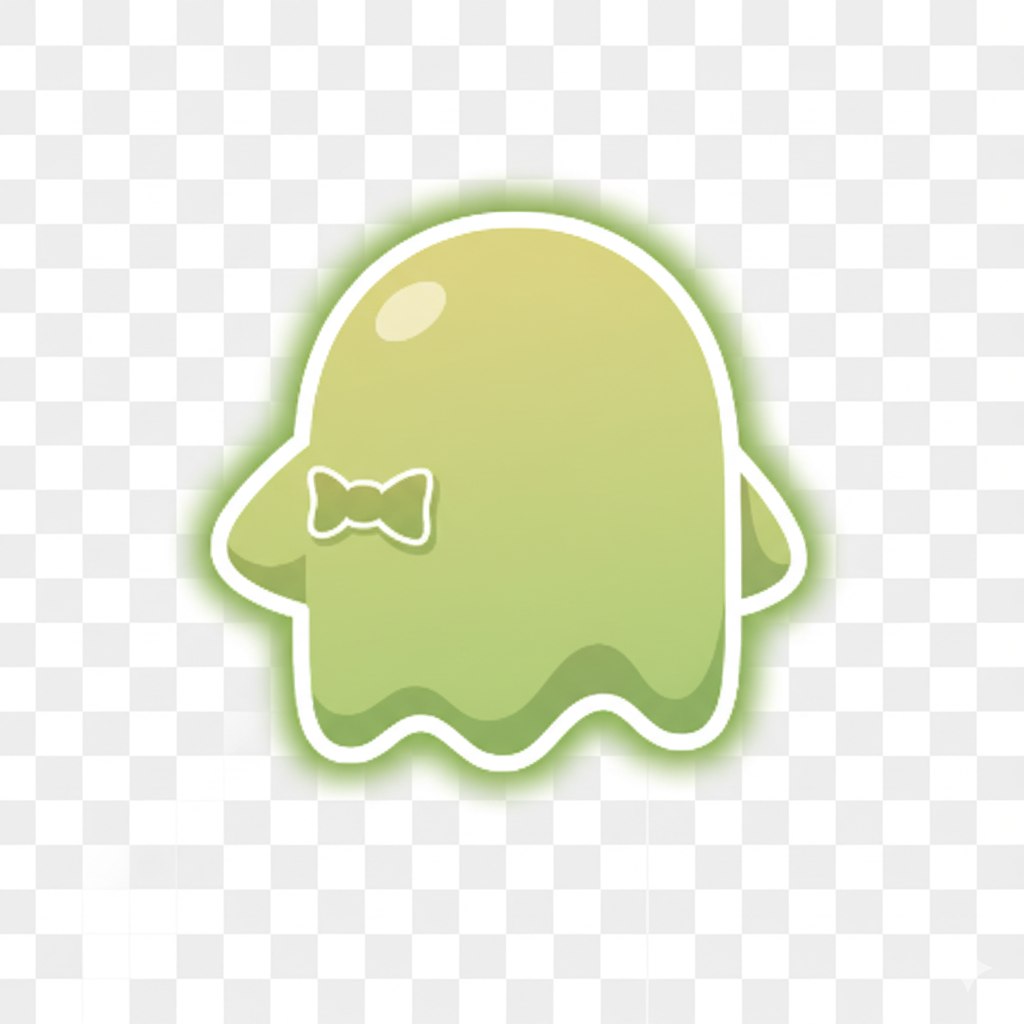
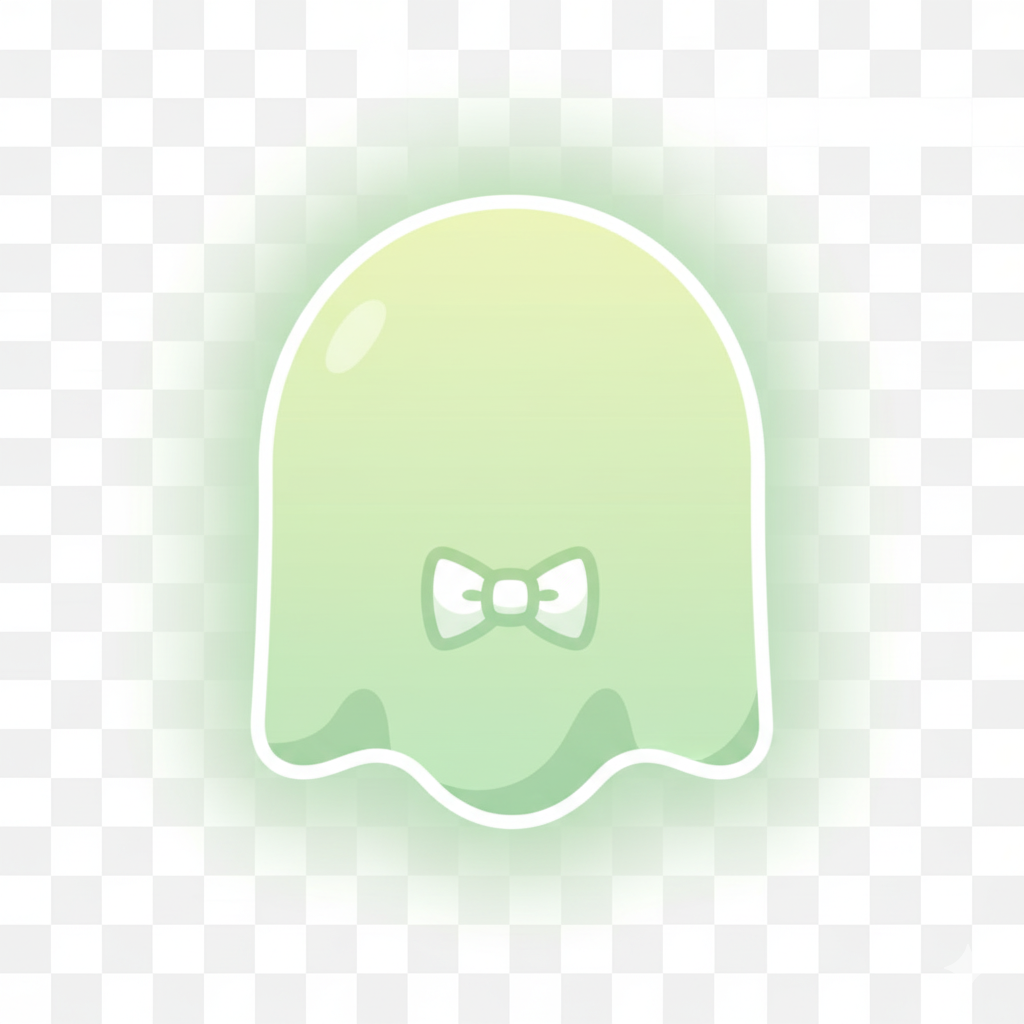
🎬 Add smooth 5-stage ghost animations with intermediate images
- Expand ghost states from 3 to 5 stages for smoother transitions:
  * BACK → TURNING_START → TURNING_MID → TURNING_END → FRONT
- Add intermediate ghost images:
  * ghost-turning-start.png (733KB) - turning start phase
  * ghost-turning-mid.png (803KB) - turning middle phase
  * ghost-turning-end.png (957KB) - turning end phase
- Implement progressive visual feedback:
  * Color progression: green → light yellow → yellow → orange → red
  * Animation progression: float → light pulse → warning → intense → explosive
  * Text progression: OK → 注意 → 警告 → 危険 → ゲームオーバー
- Update timing for smoother transitions (0.3s + 0.3s + 0.2s + 0.2s)
- Enhance game logic to handle 5-stage state transitions
- Update README with new image requirements and state descriptions

diff --git a/components/Ghost.tsx b/components/Ghost.tsx
@@ -1,7 +1,7 @@
 import React from 'react'
 import Image from 'next/image'
 
-export type GhostState = 'BACK' | 'TURNING' | 'FRONT'
+export type GhostState = 'BACK' | 'TURNING_START' | 'TURNING_MID' | 'TURNING_END' | 'FRONT'
 
 interface GhostProps {
   ghostState: GhostState
@@ -12,8 +12,12 @@ const Ghost: React.FC<GhostProps> = ({ ghostState }) => {
     switch (ghostState) {
       case 'BACK':
         return '/images/ghost/ghost-back.png' // 背中向きのおばけ
-      case 'TURNING':
-        return '/images/ghost/ghost-turning.png' // 振り返り中のおばけ
+      case 'TURNING_START':
+        return '/images/ghost/ghost-turning-start.png' // 振り返り開始
+      case 'TURNING_MID':
+        return '/images/ghost/ghost-turning-mid.png' // 振り返り中間
+      case 'TURNING_END':
+        return '/images/ghost/ghost-turning-end.png' // 振り返り終了
       case 'FRONT':
         return '/images/ghost/ghost-front.png' // 正面向きのおばけ
       default:
@@ -25,8 +29,12 @@ const Ghost: React.FC<GhostProps> = ({ ghostState }) => {
     switch (ghostState) {
       case 'BACK':
         return 'border-green-500' // スクロールOK
-      case 'TURNING':
-        return 'border-yellow-500' // 警告色
+      case 'TURNING_START':
+        return 'border-yellow-400' // 警告開始
+      case 'TURNING_MID':
+        return 'border-yellow-500' // 警告中間
+      case 'TURNING_END':
+        return 'border-orange-500' // 警告終了
       case 'FRONT':
         return 'border-red-500' // ゲームオーバー
       default:
@@ -38,8 +46,12 @@ const Ghost: React.FC<GhostProps> = ({ ghostState }) => {
     switch (ghostState) {
       case 'BACK':
         return 'スクロールOK'
-      case 'TURNING':
+      case 'TURNING_START':
+        return '注意！'
+      case 'TURNING_MID':
         return '警告！'
+      case 'TURNING_END':
+        return '危険！'
       case 'FRONT':
         return 'ゲームオーバー！'
       default:
@@ -51,8 +63,12 @@ const Ghost: React.FC<GhostProps> = ({ ghostState }) => {
     switch (ghostState) {
       case 'BACK':
         return '<div class="text-3xl">👻</div>'
-      case 'TURNING':
+      case 'TURNING_START':
+        return '<div class="text-3xl">😐</div>'
+      case 'TURNING_MID':
         return '<div class="text-3xl">⚠</div>'
+      case 'TURNING_END':
+        return '<div class="text-3xl">😠</div>'
       case 'FRONT':
         return '<div class="text-3xl">😈</div>'
       default:
@@ -64,8 +80,12 @@ const Ghost: React.FC<GhostProps> = ({ ghostState }) => {
     switch (ghostState) {
       case 'BACK':
         return 'animate-ghost-float' // カスタム浮遊アニメーション
-      case 'TURNING':
+      case 'TURNING_START':
+        return 'animate-pulse' // 軽いパルス
+      case 'TURNING_MID':
         return 'animate-ghost-warning' // カスタム警告アニメーション
+      case 'TURNING_END':
+        return 'animate-bounce' // 激しいバウンス
       case 'FRONT':
         return 'animate-ghost-angry' // カスタム怒りアニメーション
       default:
@@ -77,8 +97,12 @@ const Ghost: React.FC<GhostProps> = ({ ghostState }) => {
     switch (ghostState) {
       case 'BACK':
         return '' // コンテナは静止、画像のみアニメーション
-      case 'TURNING':
+      case 'TURNING_START':
+        return '' // まだ静か
+      case 'TURNING_MID':
         return 'animate-pulse' // 警告時のコンテナパルス
+      case 'TURNING_END':
+        return 'animate-bounce' // 危険時の激しい動き
       case 'FRONT':
         return 'animate-ping' // ゲームオーバー時の爆発的効果
       default:
@@ -107,7 +131,7 @@ const Ghost: React.FC<GhostProps> = ({ ghostState }) => {
           />
         </div>
         {/* 状態テキスト */}
-        <div className={`mt-2 bg-black bg-opacity-70 text-white text-xs px-2 py-1 rounded text-center min-w-[80px] transition-all duration-300 ${ghostState === 'TURNING' ? 'animate-pulse' : ''} ${ghostState === 'FRONT' ? 'animate-bounce' : ''}`}>
+        <div className={`mt-2 bg-black bg-opacity-70 text-white text-xs px-2 py-1 rounded text-center min-w-[80px] transition-all duration-300 ${ghostState.includes('TURNING') ? 'animate-pulse' : ''} ${ghostState === 'FRONT' ? 'animate-bounce' : ''}`}>
           {getStateText()}
         </div>
       </div>

diff --git a/pages/index.tsx b/pages/index.tsx
@@ -11,18 +11,32 @@ export default function Home() {
     const stateTransition = () => {
       switch (ghostState) {
         case 'BACK':
-          // BACK → TURNING (3-7秒のランダムな時間)
+          // BACK → TURNING_START (3-7秒のランダムな時間)
           const backToTurningDelay = Math.random() * 4000 + 3000 // 3-7秒
           setTimeout(() => {
-            setGhostState('TURNING')
+            setGhostState('TURNING_START')
           }, backToTurningDelay)
           break
 
-        case 'TURNING':
-          // TURNING → FRONT (0.7秒)
+        case 'TURNING_START':
+          // TURNING_START → TURNING_MID (0.3秒)
+          setTimeout(() => {
+            setGhostState('TURNING_MID')
+          }, 300)
+          break
+
+        case 'TURNING_MID':
+          // TURNING_MID → TURNING_END (0.3秒)
+          setTimeout(() => {
+            setGhostState('TURNING_END')
+          }, 300)
+          break
+
+        case 'TURNING_END':
+          // TURNING_END → FRONT (0.2秒)
           setTimeout(() => {
             setGhostState('FRONT')
-          }, 700)
+          }, 200)
           break
 
         case 'FRONT':
@@ -41,8 +55,8 @@ export default function Home() {
   // スクロール監視
   useEffect(() => {
     const handleScroll = () => {
-      // TURNING または FRONT の時にスクロールされたらゲームオーバー
-      if ((ghostState === 'TURNING' || ghostState === 'FRONT') && !gameOver) {
+      // TURNING系の状態または FRONT の時にスクロールされたらゲームオーバー
+      if ((ghostState.includes('TURNING') || ghostState === 'FRONT') && !gameOver) {
         setGameOver(true)
         // ページ最上部に強制スクロール
         window.scrollTo({ top: 0, behavior: 'smooth' })

diff --git a/README.md b/README.md
@@ -6,7 +6,9 @@
 
 ### おばけの状態
 - **🟢 背中向き (BACK)**: スクロールOK！自由にスクロールできます
-- **🟡 振り返り中 (TURNING)**: 警告！スクロール禁止です
+- **🟡 振り返り開始 (TURNING_START)**: 注意！スクロール禁止です
+- **🟠 振り返り中間 (TURNING_MID)**: 警告！スクロール禁止です
+- **🟠 振り返り終了 (TURNING_END)**: 危険！スクロール禁止です
 - **🔴 正面向き (FRONT)**: ゲームオーバー！スクロール禁止です
 
 ### ルール
@@ -22,9 +24,11 @@
 public/
 └── images/
     └── ghost/
-        ├── ghost-back.png      # 背中向きのおばけ
-        ├── ghost-turning.png   # 振り返り中のおばけ
-        └── ghost-front.png     # 正面向きのおばけ
+        ├── ghost-back.png         # 背中向きのおばけ
+        ├── ghost-turning-start.png # 振り返り開始
+        ├── ghost-turning-mid.png   # 振り返り中間
+        ├── ghost-turning-end.png   # 振り返り終了
+        └── ghost-front.png         # 正面向きのおばけ
 ```
 
 ### 画像の推奨仕様
